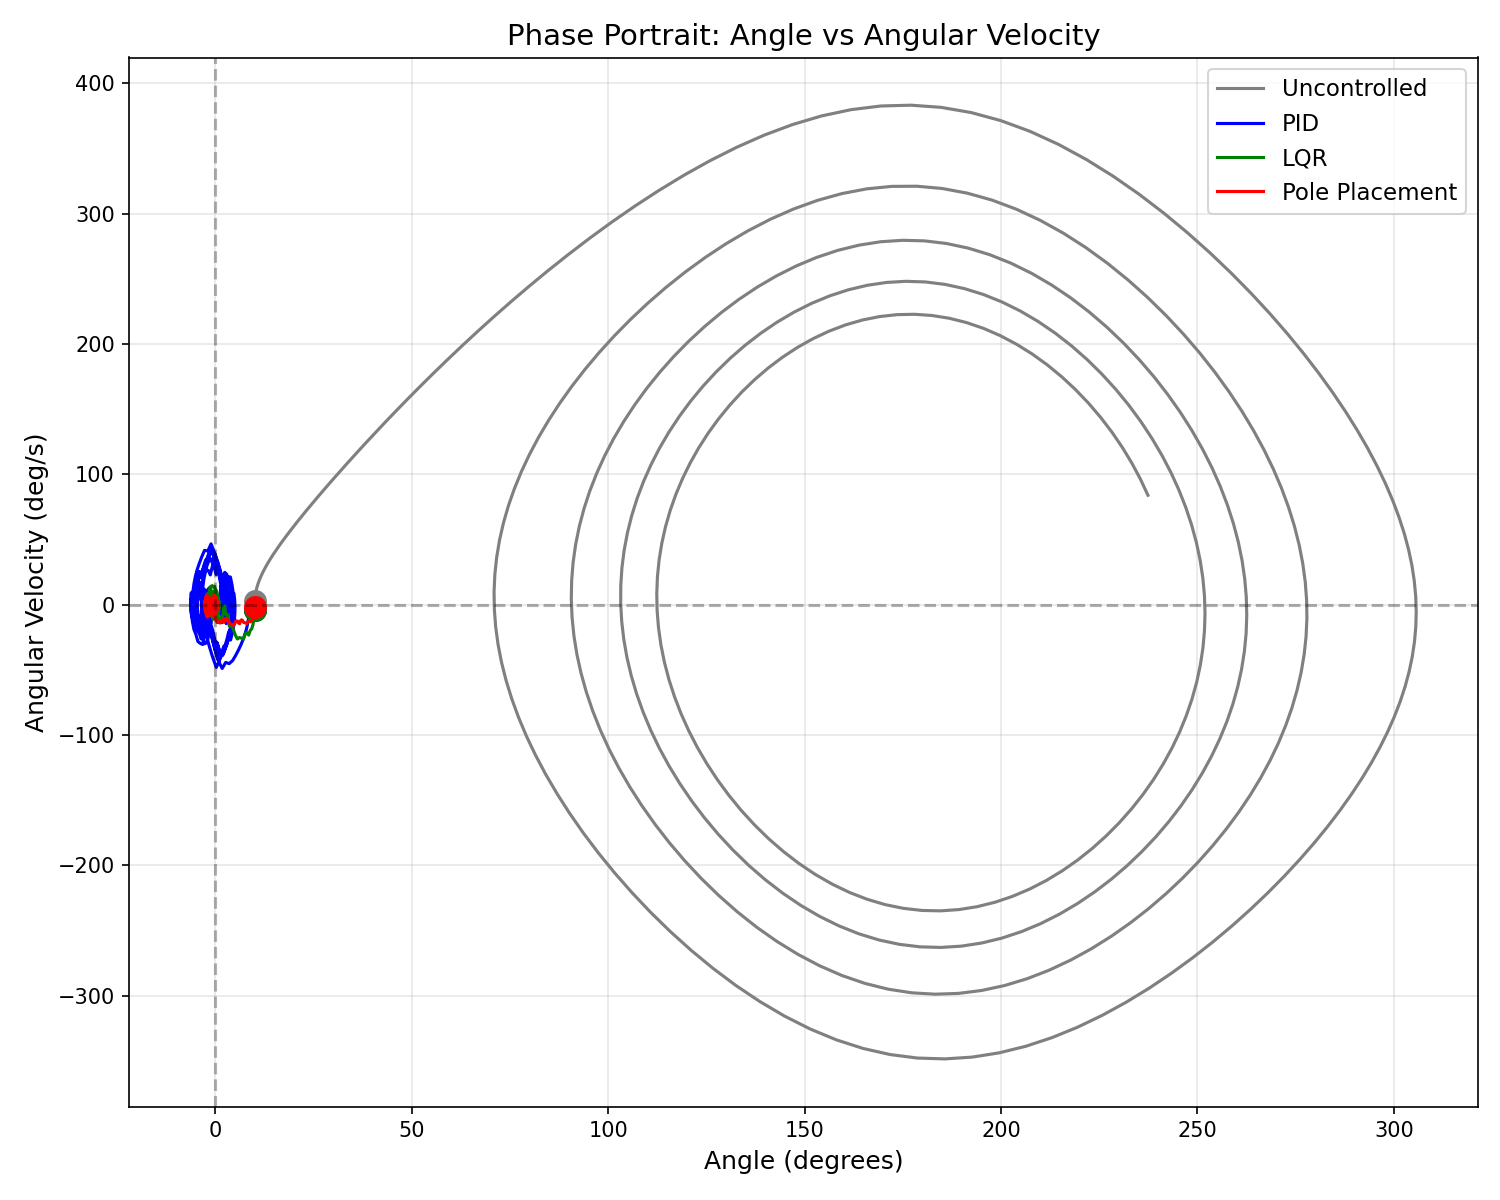
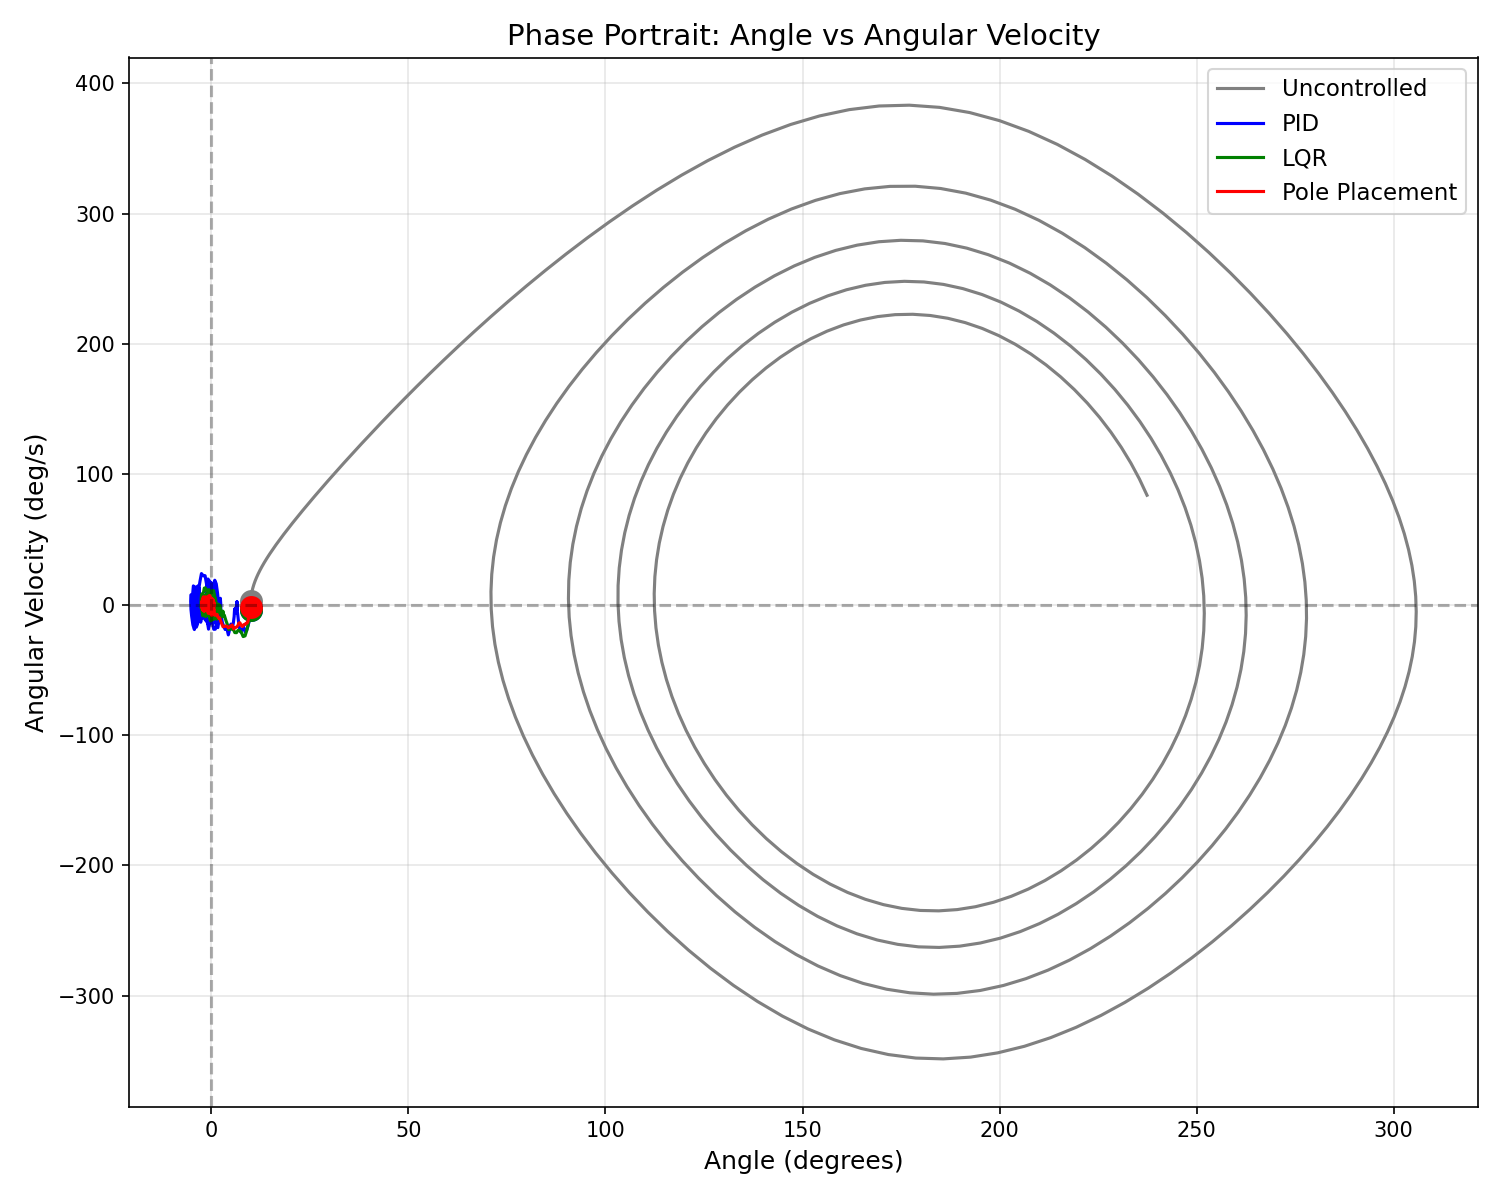
Reverted PID values to better tuned state

diff --git a/src/metrics.py b/src/metrics.py
@@ -1,0 +1,90 @@
+"""Output controller performance metrics."""
+import numpy as np
+from cart_pole import CartPole
+from controller import PIDController, LQRController, PolePlacementController
+from motor import MotorModel
+from state_filter import NoisyStateProcessor
+
+cart_pole = CartPole()
+motor = MotorModel()
+
+def analyze(controller):
+    sp = NoisyStateProcessor(position_noise_std=0.005, angle_noise_std=0.01, 
+                             tau_position=0.1, tau_angle=0.08, dt=0.02, seed=42)
+    state = np.array([0.0, 0.0, np.deg2rad(5.7), 0.0])
+    times, positions = [], []
+    t = 0.0
+    for _ in range(500):
+        times.append(t)
+        positions.append(state[0])
+        _, fs = sp.process(state)
+        f = controller.compute(fs, t)
+        mo = motor.compute_motor_output(f, state[1])
+        state = state + cart_pole.dynamics(t, state, mo['actual_force']) * 0.02
+        t += 0.02
+    
+    times, positions = np.array(times), np.array(positions)
+    target = 2.0
+    
+    # Rise time (to 90% of target)
+    rise_idx = np.where(positions >= 0.9 * target)[0]
+    rise_time = times[rise_idx[0]] if len(rise_idx) > 0 else float('inf')
+    
+    # Max position and overshoot
+    max_pos = np.max(positions)
+    overshoot = max(0, max_pos - target)
+    overshoot_pct = overshoot / target * 100
+    
+    # Settling time (within 5% of target)
+    settled = np.abs(positions - target) < 0.05 * target
+    settling_time = float('inf')
+    for i in range(len(settled)):
+        if np.all(settled[i:]):
+            settling_time = times[i]
+            break
+    
+    # Oscillation amplitude (std dev in last 2 seconds)
+    last_2s = positions[-100:]  # last 100 samples at 0.02s = 2s
+    oscillation = np.max(last_2s) - np.min(last_2s)
+    
+    return {
+        'rise_time': rise_time,
+        'max_pos': max_pos,
+        'overshoot': overshoot,
+        'overshoot_pct': overshoot_pct,
+        'final_pos': positions[-1],
+        'oscillation': oscillation,
+        'settling_time': settling_time
+    }
+
+def print_results(name, r):
+    print(f"{name}:")
+    print(f"  Rise time (90%):   {r['rise_time']:.2f}s")
+    print(f"  Max position:      {r['max_pos']:.3f}m")
+    print(f"  Overshoot:         {r['overshoot']:.3f}m ({r['overshoot_pct']:.1f}%)")
+    print(f"  Final position:    {r['final_pos']:.3f}m")
+    print(f"  Oscillation (2s):  {r['oscillation']:.3f}m")
+    if r['settling_time'] < 100:
+        print(f"  Settling time (5%): {r['settling_time']:.2f}s")
+    else:
+        print(f"  Settling time (5%): N/A")
+    print()
+
+# Create controllers
+pid = PIDController(x_target=2.0)
+lqr = LQRController(
+    cart_mass=cart_pole.M, pendulum_mass=cart_pole.m,
+    rod_length=cart_pole.L, cart_friction=cart_pole.b,
+    rotational_damping=cart_pole.c, gravity=cart_pole.g
+)
+pp = PolePlacementController(
+    cart_mass=cart_pole.M, pendulum_mass=cart_pole.m,
+    rod_length=cart_pole.L, cart_friction=cart_pole.b,
+    rotational_damping=cart_pole.c, gravity=cart_pole.g
+)
+
+# Analyze and print
+print()
+print_results("PID", analyze(pid))
+print_results("LQR", analyze(lqr))
+print_results("Pole Placement", analyze(pp))

diff --git a/src/main_interactive.py b/src/main_interactive.py
@@ -167,9 +167,9 @@ class InteractiveSimulation:
         self.ax_kd = self.fig.add_axes([0.22, 0.20, 0.22, 0.025])
         self.pid_axes = [self.ax_kp, self.ax_ki, self.ax_kd]
         
-        self.slider_kp = Slider(self.ax_kp, 'Kp', 0, 100, valinit=78.0)
-        self.slider_ki = Slider(self.ax_ki, 'Ki', 0, 5, valinit=1.5)
-        self.slider_kd = Slider(self.ax_kd, 'Kd', 0, 50, valinit=32.0)
+        self.slider_kp = Slider(self.ax_kp, 'Kp', 0, 100, valinit=55.0)
+        self.slider_ki = Slider(self.ax_ki, 'Ki', 0, 5, valinit=2.0)
+        self.slider_kd = Slider(self.ax_kd, 'Kd', 0, 40, valinit=26.0)
         
         self.slider_kp.on_changed(self._on_pid_change)
         self.slider_ki.on_changed(self._on_pid_change)

diff --git a/src/controller.py b/src/controller.py
@@ -9,14 +9,14 @@ class PIDController:
     
     def __init__(
         self,
-        kp: float = 78.0,
-        ki: float = 1.5,
-        kd: float = 32.0,
-        kp_pos: float = 0.11,
-        ki_pos: float = 0.003,
-        kd_pos: float = 0.50,
+        kp: float = 55.0,
+        ki: float = 2.0,
+        kd: float = 26.0,
+        kp_pos: float = 0.05,
+        ki_pos: float = 0.004,
+        kd_pos: float = 0.11,
         x_target: float = 2.0,
-        max_angle_setpoint: float = 0.10
+        max_angle_setpoint: float = 0.09
     ):
         # Angle PID gains
         self.kp = kp

diff --git a/README.md b/README.md
@@ -67,7 +67,7 @@ All controllers have dual objectives:
 Cascaded control: position error → angle setpoint → force.
 - Outer loop: position PD generates desired tilt angle
 - Inner loop: angle PID stabilizes to that setpoint
-- Default gains: Kp=78, Ki=1.5, Kd=32, Kp_pos=0.11, Ki_pos=0.003, Kd_pos=0.50
+- Default gains: Kp=55, Ki=2, Kd=26, Kp_pos=0.05, Ki_pos=0.004, Kd_pos=0.11
 
 ### LQR Controller
 Optimal full-state feedback minimizing J = ∫(x'Qx + u'Ru)dt.
